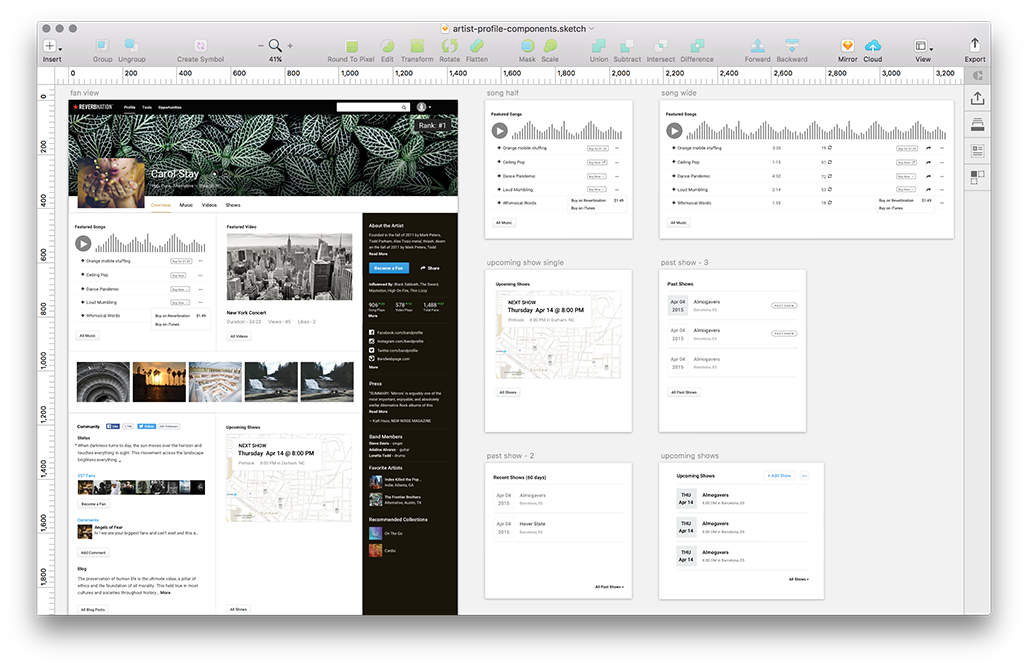
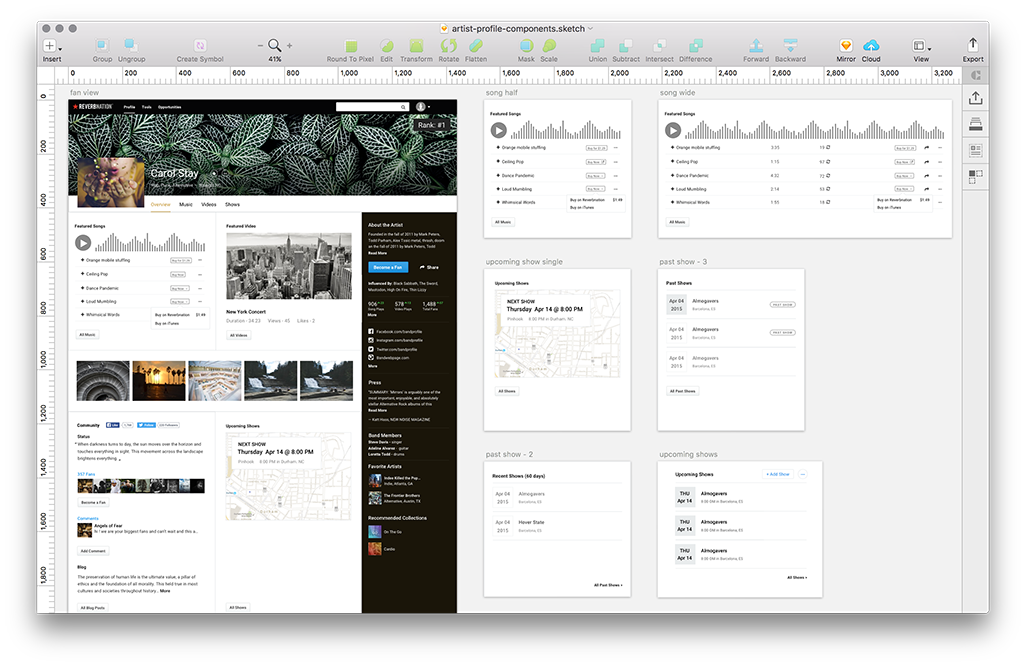
more work on cleaning up the interaction, removing the next button, and filling out the reverb portion of the portfolio

diff --git a/app/projectArtistProfile.html b/app/projectArtistProfile.html
@@ -30,61 +30,57 @@
 		</div>
 
 		<div class="project-expanded-section project-section-white">
-			<h3>Symbol sheet / component sheet / design system </h3>
-			<div class="project-expanded-content">
-				<p class="project-expanded-text-only">
-					Vibrant color pallette detection and creation, interchangeable modules that are configurable and toggleable.
-				</p>				
+			<div class="project-expanded-content-wide">
+				<img class="img-responsive center-block" src="images/project-ap-responsive.png" />
 			</div>
 		</div>
 
 		<div class="project-expanded-section project-section-gray">
-			<h3>Tabs</h3>
-			<div class="project-expanded-content-wide">				
-				<img class="img-responsive center-block" src="images/project-hta-mockup_00.png" />
-			</div>
-		</div>
-		
-		<div class="project-expanded-section project-section-gray-dark">
-			<h3>Testing</h3>
-			<div class="project-expanded-content">
-				<p class="project-expanded-text-only">We scaled our test group up slowly, starting with about 5% of new users at first. We collected all the responsive in a gmail account that everyone on the team had access to, so we could see feedback come in real time while using Mixpanel to track key metrics like song uploads and shares.</p>
-			</div>
-			<div class="project-expanded-content-wide">
-				<img class="img-responsive center-block" src="images/project-hta-mockup_01.png" />
-			</div>
-		</div>
-		
-		<div class="project-expanded-section project-section-gray-dark">
 			<h3>Artist Admin</h3>
 			<div class="project-expanded-content">
 				<p class="project-expanded-text-only">The Artist Profile allows the user to add and edit content right inline with a contextually relevant ui layer with controls that only the logged in owner of the page will see. The user is able to toggle to the "Fan View" which strips this layer away to give them a preview of the final product.</p>
 			</div>
-			<div class="project-expanded-content-wide">
-				<img class="img-responsive center-block" src="images/project-hta-mockup_01.png" />
+			<div class="project-expanded-content-wide">				
+				<img class="img-responsive center-block" src="images/project-ap-admin.jpg" />
 			</div>
 		</div>
-<!--
+
+		<div class="project-expanded-section project-section-red">
+			<h3>Customizable and Flexible</h3>
+			<div class="project-expanded-content">
+				<p class="project-expanded-text-only">
+					Users can upload songs and photos, create shows, link to and present videos, write their bios, add press releases, band members and links to other sites, stores, and social networks. They can also customize their profile by switching up the module order, or turning modules off altogether.
+				</p>
+				<p class="project-expanded-text-only">
+					We use Vibrant.JS to detect a highlight color from either the cover photo or the profile picture, and use that to seed certain UI and background colors throughout the profile. The user can override this though.
+				</p>				
+			</div>
+		</div>
+
 		<div class="project-expanded-section project-section-gray-dark">
-			<h3>Opt in animation / user migration work</h3>
 			<div class="project-expanded-content-wide">				
-				<img class="img-responsive center-block" src="images/project-hta-mockup_00.png" />
+				<img class="img-responsive center-block" src="images/project-ap-admin-customize.jpg" />
+			</div>
+		</div>
+
+		<div class="project-expanded-section project-section-gray">
+			<h3>Music Section</h3>
+			<h4>Artists can display albums in a grid or open track view</h4>
+			<div class="project-expanded-content-wide">				
+				<img class="img-responsive center-block" src="images/project-ap-music-section.png" />
 			</div>
 		</div>
 		
-		<div class="project-expanded-section project-section-gray">
-			<h3>Final Web Application</h3>
-			<div class="project-expanded-content-wide">
-				<img class="img-responsive center-block" src="images/project-hta-final_00.png" />
-			</div>
-			<div class="project-expanded-content-wide">
-				<img class="img-responsive center-block" src="images/project-hta-final_01.png" />
-			</div>
-			<div class="project-expanded-content-wide">
-				<img class="img-responsive center-block" src="images/project-hta-final_02.png" />
+		<div class="project-expanded-section project-section-gray-dark">
+			<h3>Testing and Iterating</h3>
+			<div class="project-expanded-content">
+				<p class="project-expanded-text-only">We scaled our test group up slowly, starting with about 5% of new users at first. We collected all the responses in a gmail account that everyone on the team had access to, so we could see feedback come in real time while using Mixpanel to track key metrics like song uploads and shares.</p>
+				<p class="project-expanded-text-only">Improvements continue to be made as long term usage is tracked, and support tickets are compiled to identify areas of friction.</p>
 			</div>
 		</div>
-		-->
+		
+		<!-- Opt in animation / user migration work -->
+		
 		<div class="project-expanded-section project-section-white">
 			<h5>Client: ReverbNation</h5>
 			<h6>02 / 01 / 2016</h6>

diff --git a/app/scripts/main.js b/app/scripts/main.js
@@ -15,11 +15,12 @@ $(function() {
 	tweenTimeFast = 0.3,
 	btnArray = ['btnA0' ,'btnA1' ,'btnA2' ,'btnA3'],
 	tlWindowScroll = new TimelineMax({paused: true}),
-	tlBannerSize0 = new TimelineMax({paused: true}),
-	tlBannerSize1 = new TimelineMax({paused: true}),
-	tlBannerSize2 = new TimelineMax({paused: true}),
-	tlBannerSize3 = new TimelineMax({paused: true}),
-	tlBannerSizeArr = [tlBannerSize0, tlBannerSize1, tlBannerSize2, tlBannerSize3],
+	tlBannerSizeArr = [
+		new TimelineMax({paused: true}), 
+		new TimelineMax({paused: true}), 
+		new TimelineMax({paused: true}), 
+		new TimelineMax({paused: true})
+	],
 	projBannerArr = [];
 	
 	// prepare project banner array and load animations 
@@ -38,13 +39,14 @@ $(function() {
 	});
 
 	function loadProject (e) {
-		var clickedId = $(e.target).attr('id') === 'projectNext' ? $(e.target).attr('data-next') : $(e.target).parents('.project-banner').attr('id'),
+		var clickedId = $(e.target).parents('.project-banner').attr('id'),
 		svgId = $('#' + clickedId).find('.btn-project-explode').attr('id'),
-		$svgContainer = $('#' + svgId),
-		allIds = toggleProjectBanners(clickedId);
+		$svgContainer = $('#' + svgId);
+
+		toggleProjectBanners(clickedId);
 
 		$svgContainer.trigger('dope-click');
-		prepNext(allIds, allIds.indexOf(clickedId));
+		prepNext(projBannerArr, projBannerArr.indexOf(clickedId));
 
 		$('.project-return').empty();
 		// ajax in project section using naming convention that matches clicked element > file > div
@@ -54,39 +56,24 @@ $(function() {
 	}
 	
 	function toggleProjectBanners (openId) {
-		var availableProjectIds = [];
 		for (var i = 0; i < $projectBanners.length; i++) {
-			availableProjectIds.push($projectBanners.eq(i).attr('id'));
 			if ($projectBanners.eq(i).attr('id') !== openId) {	
 				tlBannerSizeArr[i].tweenFromTo('start','expand');
 				$projectBanners.eq(i).trigger('sticky_kit:detach');
 			}
 		}
-		return availableProjectIds;
 	}
 	
 	function prepNext (idList, curIdIndex) {
-		var $btnNext = $('#projectNext'),
-				$btnClose = $('#' + idList[curIdIndex] + 'Close');
-		$btnNext.removeClass('btn-project-off');
+		var	$btnClose = $('#' + idList[curIdIndex] + 'Close');
 		$btnClose.removeClass('btn-project-off').attr('data-close', idList[curIdIndex]);
 		$('#navWork').attr('data-close', idList[curIdIndex]);
-		// set data close attribute on close button to jump back to that project when closed
-		if ( (curIdIndex + 1) === idList.length) {
-			$btnNext.attr('data-next', idList[0]);
-		} else {
-			$btnNext.attr('data-next', idList[ (curIdIndex + 1 )]);
-		}
 	}
 	
-	function nextProject (e) {
-		loadProject(e);
-	}
-		
+
 	function closeProject (e) {
 		// manage the buttons and remove data element from next button
 		var $cP = $('#'+ $(e.target).closest('.btn-project-close').attr('data-close'));
-		//	var cpOffset = $cP.offset().top;
 		$cP.trigger('sticky_kit:detach');
 		$squishyEl = '';
 		
@@ -106,7 +93,6 @@ $(function() {
 		}
 		$('.project-title').css('top', '0px');
 		$('.project-subtitle').css('top', '0px');
-		$('#projectNext').addClass('btn-project-off').attr('data-next', '');
 		// handle svg button display
 		$btnE.each(function(index) {
 			btnArray[index].css('left', '0');
@@ -195,7 +181,6 @@ $(function() {
 		 ---------------- */
 
  	$('.btn-project-explode').on('click', loadProject);
-	$('.btn-project-next').on('click', nextProject);
 	$('.btn-project-close').on('click', closeProject);
 	$('#navWork').on('click', closeProject);
 	

diff --git a/app/index.html b/app/index.html
@@ -139,26 +139,6 @@
 						</div>
 						<div class="project-return" id="projectArtistProfileReturn"></div>
 
-						<!--
-						<div class="project-banner project-mfs" id="projectMFS">
-							<div class="mob-verticalAdjustCenter">
-								<h2 class="project-title">Montessori Farm School</h2>
-								<h3 class="project-subtitle">Responsive Website</h3>
-								
-								<div class="btn-project-explode" id="btnExplodeContainer2">
-									<svg class="btn-svg" id="btnExplode2"></svg>
-									<span class="btn-project-text"></span>
-								</div>
-								
-								<button class="btn-project-close btn-project-off" id="projectMFSClose" data-close="">
-									<div id="btnCloseContainer2">
-										<svg class="btn-svg-close" id="btnClose2"></svg>
-									</div>
-								</button>	
-							</div>
-						</div>
-						<div class="project-return" id="projectMFSReturn"></div>
-						-->
 						<div class="project-banner project-hta" id="projectHTA">
 							<div class="mob-verticalAdjustCenter">
 								<h2 class="project-title">Helios Towers Africa</h2>
@@ -177,9 +157,6 @@
 						</div>
 						<div class="project-return" id="projectHTAReturn"></div>
 						
-						<div class="project-controls">
-							<button class="btn-project-next btn-project-off" id="projectNext" data-next="">Next</button>
-						</div>
 					</div>
 				</div> <!-- /work -->
 

diff --git a/app/styles/main.scss b/app/styles/main.scss
@@ -40,7 +40,10 @@ CSS Style Conventions: http://smacss.com/book/categorizing http://thesassway.com
 /*	----------------- 
 		BASE 
 ----------------- */
-@import url(http://fonts.googleapis.com/css?family=Muli:400,300,300italic,400italic);
+//@import url(http://fonts.googleapis.com/css?family=Muli:400,300,300italic,400italic);
+
+@import url(https://fonts.googleapis.com/css?family=Montserrat:300,400,500,600,700);
+
 $icon-font-path: "../bower_components/bootstrap-sass-official/assets/fonts/bootstrap/";
 // bower:scss
 @import "bootstrap-sass-official/assets/stylesheets/_bootstrap.scss";
@@ -84,7 +87,7 @@ $buttonShadow: 0px 1px 1px 1px rgba(0, 0, 0, 0.20);
 
 $buttonShadowActive: 0px 3px 3px 1px rgba(0, 0, 0, 0.20);
 
-$mainFont: 'Muli', 'Century Gothic', Verdana, Arial, san-serif;
+$mainFont: 'Montserrat', 'Century Gothic', Verdana, Arial, san-serif;
 
 $z1: 100;
 $z2: 200;
@@ -506,8 +509,6 @@ img.about-headshot {
 .project-hillrom { background-image: url(../images/banner-mobile-hillrom.jpg); }
 
 .project-ssa { background-image: url(../images/banner-mobile-ssa.jpg); }
-
-//.project-mfs { background-image: url(../images/banner-mobile-mfs.jpg); }
 
 .project-artistprofile { background-image: url(../images/banner-mobile-artistprofile.jpg); }
 

diff --git a/app/scripts/button-svg.js b/app/scripts/button-svg.js
@@ -3,16 +3,13 @@
 
 'use strict';
 
-	/* ---------------------------------------
-	// begin mega loop for each exploder button
-		--------------------------------------- */
 function getRandomInt(min, max) {
 	return Math.floor(Math.random() * (max - min + 1)) + min;
 }
 
 $(function() {
 
-	var $projectBanners = $('.project-banner'),
+	var $exploderButtons = $('.btn-project-explode'),
 	jitMin = 25,
 	jitMax = 85,
 	strokeNum = 5,
@@ -34,7 +31,10 @@ $(function() {
 	curRot,
 	closeCircle;
 
-	$projectBanners.each(function(index) {
+	/* ---------------------------------------
+	// begin mega loop for each exploder button
+	--------------------------------------- */
+	$exploderButtons.each(function(index) {
 		// Create close buttons
 		snapCloseArray[index] = Snap('#btnClose'+index);
 		btnCloseArray[index] = $('#btnCloseContainer'+index);
